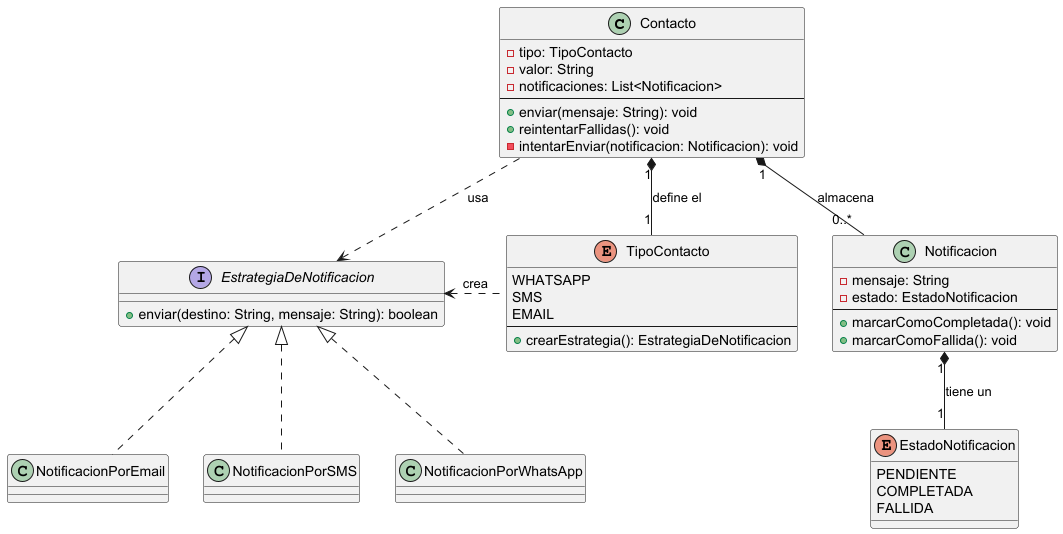
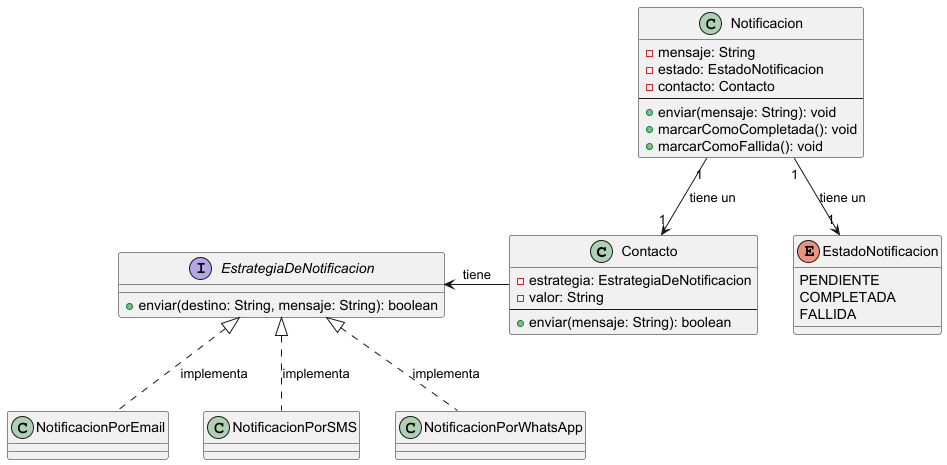
Ajusto notificacion

diff --git a/src/test/java/donante/RepositorioPersonasTest.java b/src/test/java/donante/RepositorioPersonasTest.java
@@ -1,5 +1,6 @@
 package donante;
 
+import notificacion.NotificacionPorEmail;
 import org.junit.jupiter.api.BeforeEach;
 import org.junit.jupiter.api.Test;
 
@@ -14,11 +15,12 @@ public class RepositorioPersonasTest {
     private RepositorioPersonas repositorioPersonas;
     private PersonaHumana donanteHumano;
     private PersonaJuridica donanteJuridico;
+    NotificacionPorEmail estrategiaEmail = new NotificacionPorEmail();
 
     @BeforeEach
     void setUp() {
         repositorioPersonas = new RepositorioPersonas();
-        List<Contacto> contactos = List.of(new Contacto(TipoContacto.EMAIL, "test@test.com"));
+        List<Contacto> contactos = List.of(new Contacto(estrategiaEmail, "test@test.com"));
         Usuario usuario = new Usuario("user", "pass");
         donanteHumano = new PersonaHumana("Nombre", "Apellido", 30, TipoDoc.DNI, "12345678", Genero.MASCULINO, "Calle Falsa 123", contactos, contactos.get(0), usuario);
         donanteJuridico = new PersonaJuridica(TipoDoc.CUIT, "30-12345678-9", "Empresa S.A.", RazonSocial.EMPRESA, "Tecnología", Collections.emptyList(), contactos, contactos.get(0), usuario);
@@ -58,7 +60,7 @@ public class RepositorioPersonasTest {
     void sePuedeActualizarUnaPersonaHumana() {
         // Arrange
         repositorioPersonas.agregar(donanteHumano);
-        List<Contacto> contactos = List.of(new Contacto(TipoContacto.EMAIL, "test@test.com"));
+        List<Contacto> contactos = List.of(new Contacto(estrategiaEmail, "test@test.com"));
         Usuario usuario = new Usuario("user", "pass");
         PersonaHumana donanteActualizado = new PersonaHumana("NombreActualizado", "Apellido", 30, TipoDoc.DNI, "12345678", Genero.MASCULINO, "Calle Falsa 123", contactos, contactos.get(0), usuario);
 
@@ -75,7 +77,7 @@ public class RepositorioPersonasTest {
     void sePuedeActualizarUnaPersonaJuridica() {
         // Arrange
         repositorioPersonas.agregar(donanteJuridico);
-        List<Contacto> contactos = List.of(new Contacto(TipoContacto.EMAIL, "test@test.com"));
+        List<Contacto> contactos = List.of(new Contacto(estrategiaEmail, "test@test.com"));
         Usuario usuario = new Usuario("user", "pass");
         PersonaJuridica donanteActualizado = new PersonaJuridica(TipoDoc.CUIT, "30-12345678-9", "Empresa Actualizada S.A.", RazonSocial.EMPRESA, "Tecnología", Collections.emptyList(), contactos, contactos.get(0), usuario);
 

diff --git a/src/main/java/cargaCSV/ImportadorPersonas.java b/src/main/java/cargaCSV/ImportadorPersonas.java
@@ -5,12 +5,14 @@ import donante.Persona;
 import donante.PersonaHumana;
 import donante.PersonaJuridica;
 import donante.RepositorioPersonas;
-import donante.TipoContacto;
 import donante.TipoDoc;
 import donante.Usuario;
 import java.util.ArrayList;
 import java.util.List;
 import java.util.Optional;
+import notificacion.Notificacion;
+import notificacion.NotificacionPorEmail;
+import notificacion.NotificacionPorWhatsApp;
 import org.apache.commons.csv.CSVRecord;
 
 public class ImportadorPersonas {
@@ -36,7 +38,10 @@ public class ImportadorPersonas {
                 personaAActualizar.actualizarseDesde(personaPotencial);
             } else {
                 repositorioPersonas.agregar(personaPotencial);
-                personaPotencial.enviarEmailDeBienvenida();
+                Notificacion notificacion = new Notificacion(personaPotencial.getMedioPredeterminado(),
+                    "¡Hola " + personaPotencial.getNombre()
+                        + "! Te damos la bienvenida a dona-track. Gracias por unirte.");
+                notificacion.enviar();
             }
         }
     }
@@ -77,8 +82,10 @@ public class ImportadorPersonas {
 
     private List<Contacto> crearContactos(String emailStr, String telefonoStr) {
         List<Contacto> contactos = new ArrayList<>();
-        contactos.add(new Contacto(TipoContacto.EMAIL, emailStr));
-        contactos.add(new Contacto(TipoContacto.WHATSAPP, telefonoStr));
+        NotificacionPorEmail estrategiaEmail = new NotificacionPorEmail();
+        NotificacionPorWhatsApp estrategiaWhatsapp = new NotificacionPorWhatsApp();
+        contactos.add(new Contacto(estrategiaEmail, emailStr));
+        contactos.add(new Contacto(estrategiaWhatsapp, telefonoStr));
         return contactos;
     }
 

diff --git a/src/main/java/donante/Contacto.java b/src/main/java/donante/Contacto.java
@@ -1,38 +1,21 @@
 package donante;
 
-import java.util.ArrayList;
-import java.util.List;
 import notificacion.EstrategiaDeNotificacion;
-import notificacion.Notificacion;
 
 public class Contacto {
-    private final TipoContacto tipo;
     private final String valor;
-    private final List<Notificacion> notificaciones = new ArrayList<>();
+    private final EstrategiaDeNotificacion estrategiaDeNotificacion;
 
-    public Contacto(TipoContacto tipo, String valor) {
-        this.tipo = tipo;
+    public Contacto(EstrategiaDeNotificacion estrategiaDeNotificacion, String valor) {
+        this.estrategiaDeNotificacion = estrategiaDeNotificacion;
         this.valor = valor;
-    }
-
-    public TipoContacto getTipo() {
-        return tipo;
     }
 
     public String getValor() {
         return valor;
     }
 
-    public void enviar(String mensaje) {
-        EstrategiaDeNotificacion estrategia = this.tipo.crearEstrategia();
-        boolean exito = estrategia.enviar(this.valor, mensaje);
-
-        Notificacion notificacion = new Notificacion(mensaje);
-        if (exito) {
-            notificacion.marcarComoCompletada();
-        } else {
-            notificacion.marcarComoFallida();
-        }
-        this.notificaciones.add(notificacion);
+    public boolean enviar(String mensaje) {
+        return estrategiaDeNotificacion.enviar(valor, mensaje);
     }
 }

diff --git a/src/main/java/donante/Persona.java b/src/main/java/donante/Persona.java
@@ -2,15 +2,14 @@ package donante;
 
 import java.util.ArrayList;
 import java.util.List;
-import java.util.Optional;
 
 public abstract class Persona {
     private final TipoDoc tipoDoc;
     private String documento;
     private String nombre;
-    private List<Contacto> contactos;
+    private final List<Contacto> contactos;
     private Contacto medioPredeterminado;
-    private Usuario usuario;
+    private final Usuario usuario;
 
     Persona(
             TipoDoc tipoDoc,
@@ -29,10 +28,6 @@ public abstract class Persona {
         }
         setMedioPredeterminado(medioPredeterminado);
         this.usuario = usuario;
-    }
-
-    public TipoDoc getTipoDoc() {
-        return this.tipoDoc;
     }
 
     public String getDocumento() {
@@ -86,16 +81,4 @@ public abstract class Persona {
         this.agregarContactos(persona.getContactos());
         this.setMedioPredeterminado(persona.getMedioPredeterminado());
   }
-
-    public void enviarEmailDeBienvenida() {
-        Optional<Contacto> contactoEmail = this.contactos.stream()
-            .filter(c -> c.getTipo() == TipoContacto.EMAIL)
-            .findFirst();
-
-        contactoEmail.ifPresent(contacto -> {
-            String mensaje = "¡Hola " + this.getNombre() + "! Te damos la bienvenida a dona-track. Gracias por unirte.";
-            contacto.enviar(mensaje);
-        });
-    }
-
 }

diff --git a/src/test/java/cargaCSV/ImportadorPersonasTest.java b/src/test/java/cargaCSV/ImportadorPersonasTest.java
@@ -3,6 +3,7 @@ package cargaCSV;
 import donante.*;
 import java.util.List;
 import java.util.Optional;
+import notificacion.NotificacionPorEmail;
 import org.junit.jupiter.api.Test;
 import org.junit.jupiter.api.extension.ExtendWith;
 import org.mockito.InjectMocks;
@@ -60,7 +61,8 @@ public class ImportadorPersonasTest {
     void importarPersonasDesdeCSV_ActualizaPersona_SiYaExiste() {
         // Arrange: Preparamos una persona existente para que el mock la devuelva
         String pathCsv = "donantes_solo_persona_humana.csv";
-        List<Contacto> contactosAna = List.of(new Contacto(TipoContacto.EMAIL, "ananavarro3658@yahoo.com"));
+        NotificacionPorEmail estrategiaEmail = new NotificacionPorEmail();
+        List<Contacto> contactosAna = List.of(new Contacto(estrategiaEmail, "ananavarro3658@yahoo.com"));
         Usuario usuarioAna = new Usuario("ana_viejo", "passVieja");
         PersonaHumana donanteExistente = spy(new PersonaHumana(
                 "Nombre_viejo", "Apellido_viejo", 1, TipoDoc.DNI, "1", Genero.FEMENINO, "Av. Siempre Viva 742",

diff --git a/src/main/java/notificacion/Notificacion.java b/src/main/java/notificacion/Notificacion.java
@@ -1,10 +1,14 @@
 package notificacion;
 
+import donante.Contacto;
+
 public class Notificacion {
     private final String mensaje;
     private EstadoNotificacion estado;
+    private final Contacto contacto;
 
-    public Notificacion(String mensaje) {
+    public Notificacion(Contacto contacto, String mensaje) {
+        this.contacto = contacto;
         this.mensaje = mensaje;
         this.estado = EstadoNotificacion.PENDIENTE;
     }
@@ -23,5 +27,14 @@ public class Notificacion {
 
     public void marcarComoFallida() {
         this.estado = EstadoNotificacion.FALLIDA;
+    }
+
+    public void enviar() {
+        boolean exito = contacto.enviar(mensaje);
+        if (exito) {
+            marcarComoCompletada();
+        } else {
+            marcarComoFallida();
+        }
     }
 }

diff --git a/src/test/java/DonacionEntranteTest.java b/src/test/java/DonacionEntranteTest.java
@@ -1,4 +1,5 @@
 import donante.*;
+import notificacion.NotificacionPorEmail;
 import org.junit.jupiter.api.BeforeEach;
 import org.junit.jupiter.api.Test;
 import java.util.List;
@@ -12,7 +13,8 @@ public class DonacionEntranteTest {
 
     @BeforeEach
     void setUp() {
-        Contacto email = new Contacto(TipoContacto.EMAIL, "test@mail.com");
+        NotificacionPorEmail estrategiaEmail = new NotificacionPorEmail();
+        Contacto email = new Contacto(estrategiaEmail, "test@mail.com");
         donante = new PersonaHumana(
             "Juan", "Perez", 30,
             TipoDoc.DNI, "12345678",

diff --git a/src/test/java/SistemaDonacionesTest.java b/src/test/java/SistemaDonacionesTest.java
@@ -1,4 +1,5 @@
 import donante.*;
+import notificacion.NotificacionPorEmail;
 import org.junit.jupiter.api.Test;
 
 import java.time.Duration;
@@ -510,7 +511,8 @@ public class SistemaDonacionesTest {
     }
 
     private static Persona donante() {
-        Contacto email = new Contacto(TipoContacto.EMAIL, "ana@example.com");
+        NotificacionPorEmail estrategiaEmail = new NotificacionPorEmail();
+        Contacto email = new Contacto(estrategiaEmail, "ana@example.com");
         return new PersonaHumana(
                 "Ana",
                 "Perez",
